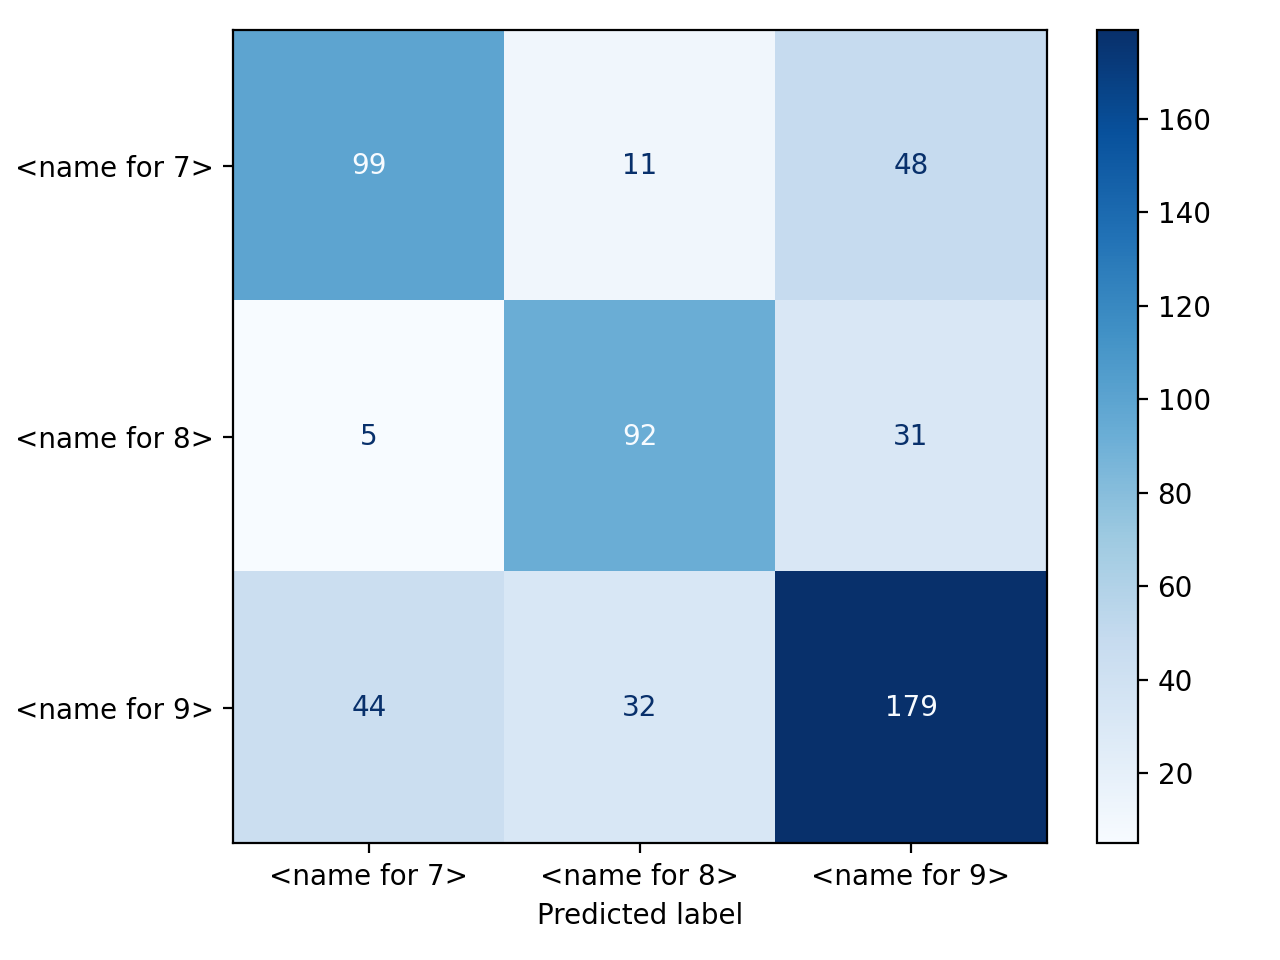
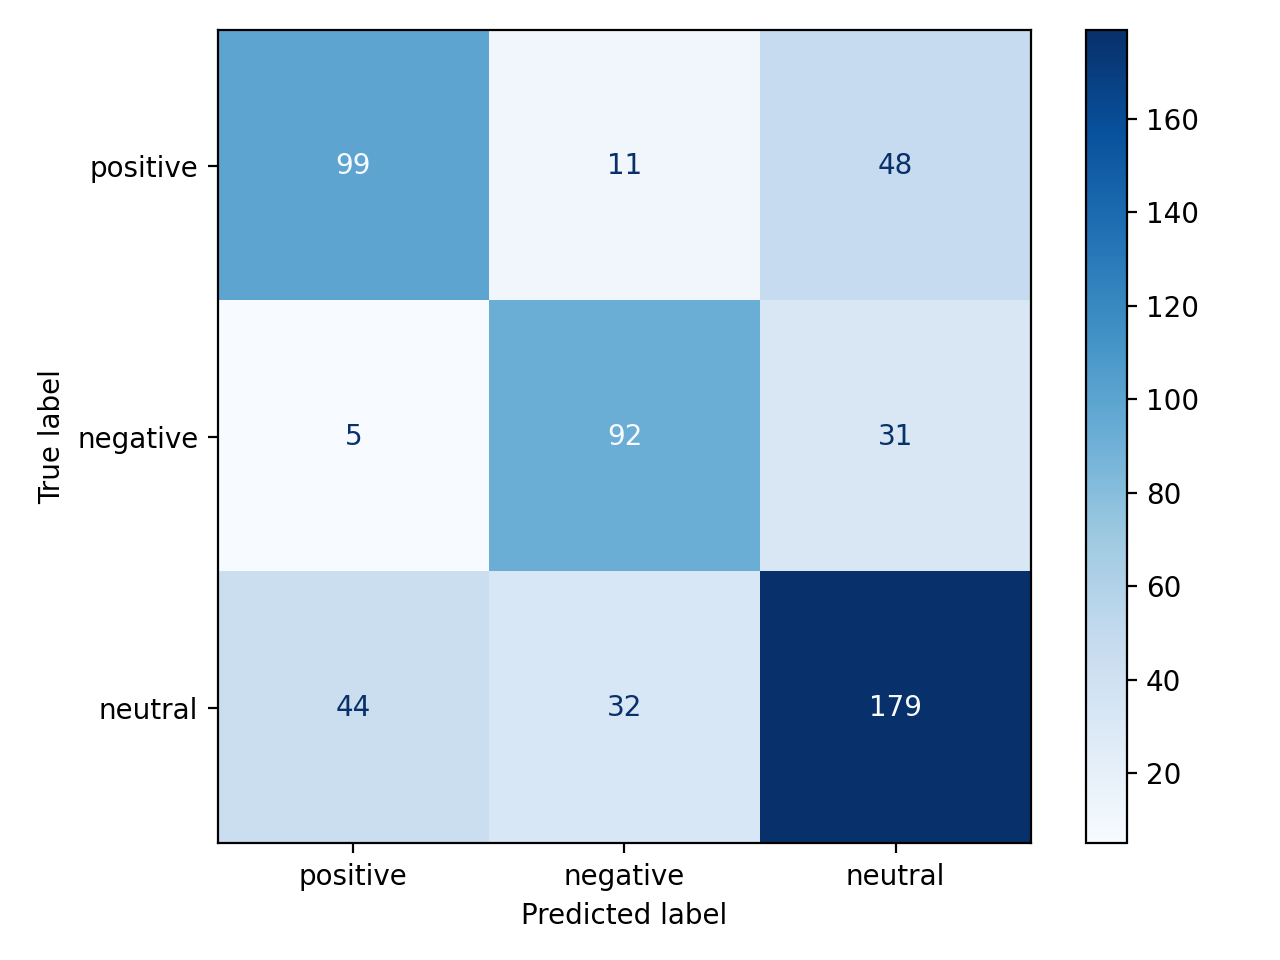
Seeds 3,4 for full-data default, all 5 models

diff --git a/results/aggregate_tables.md b/results/aggregate_tables.md
@@ -4,31 +4,31 @@
 
 | Model | Accuracy | Macro-F1 | Per-seed range |
 |---|---|---|---|
-| mbert | 0.601 ± 0.007 (n=3) | 0.583 ± 0.006 (n=3) | 0.579–0.591 |
-| xlmr | 0.659 ± 0.013 (n=3) | 0.654 ± 0.013 (n=3) | 0.643–0.669 |
-| indicbert | 0.680 ± 0.018 (n=3) | 0.679 ± 0.017 (n=3) | 0.666–0.699 |
-| muril | 0.614 ± 0.125 (n=3) | 0.526 ± 0.271 (n=3) | 0.214–0.695 |
-| telugubert | 0.691 ± 0.013 (n=3) | 0.689 ± 0.013 (n=3) | 0.682–0.704 |
+| mbert | 0.597 ± 0.008 (n=5) | 0.578 ± 0.011 (n=5) | 0.561–0.591 |
+| xlmr | 0.664 ± 0.015 (n=5) | 0.659 ± 0.015 (n=5) | 0.643–0.679 |
+| indicbert | 0.680 ± 0.013 (n=5) | 0.679 ± 0.012 (n=5) | 0.666–0.699 |
+| muril | 0.635 ± 0.093 (n=5) | 0.581 ± 0.206 (n=5) | 0.214–0.695 |
+| telugubert | 0.690 ± 0.010 (n=5) | 0.688 ± 0.011 (n=5) | 0.679–0.704 |
 
 ### Training-data size (default settings)
 
 | Model | 10% | 25% | 50% | 100% |
 |---|---|---|---|---|
-| mbert | 0.346 ± 0.118 (n=3) | 0.526 ± 0.014 (n=3) | 0.561 ± 0.027 (n=3) | 0.583 ± 0.006 (n=3) |
-| xlmr | 0.267 ± 0.092 (n=3) | 0.546 ± 0.012 (n=3) | 0.636 ± 0.015 (n=3) | 0.654 ± 0.013 (n=3) |
-| indicbert | 0.214 ± 0.000 (n=3) | 0.563 ± 0.036 (n=3) | 0.670 ± 0.021 (n=3) | 0.679 ± 0.017 (n=3) |
-| muril | 0.214 ± 0.000 (n=3) | 0.354 ± 0.243 (n=3) | 0.660 ± 0.011 (n=3) | 0.526 ± 0.271 (n=3) |
-| telugubert | 0.214 ± 0.000 (n=3) | 0.655 ± 0.006 (n=3) | 0.663 ± 0.010 (n=3) | 0.689 ± 0.013 (n=3) |
+| mbert | 0.346 ± 0.118 (n=3) | 0.526 ± 0.014 (n=3) | 0.561 ± 0.027 (n=3) | 0.578 ± 0.011 (n=5) |
+| xlmr | 0.267 ± 0.092 (n=3) | 0.546 ± 0.012 (n=3) | 0.636 ± 0.015 (n=3) | 0.659 ± 0.015 (n=5) |
+| indicbert | 0.214 ± 0.000 (n=3) | 0.563 ± 0.036 (n=3) | 0.670 ± 0.021 (n=3) | 0.679 ± 0.012 (n=5) |
+| muril | 0.214 ± 0.000 (n=3) | 0.354 ± 0.243 (n=3) | 0.660 ± 0.011 (n=3) | 0.581 ± 0.206 (n=5) |
+| telugubert | 0.214 ± 0.000 (n=3) | 0.655 ± 0.006 (n=3) | 0.663 ± 0.010 (n=3) | 0.688 ± 0.011 (n=5) |
 
 ### Learning rate, full data, 4 epochs, no warmup
 
 | Model | 2e-05 | 3e-05 | 5e-05 |
 |---|---|---|---|
-| mbert | 0.583 ± 0.006 (n=3) | 0.580 ± 0.009 (n=3) | 0.323 ± 0.189 (n=3) |
-| xlmr | 0.654 ± 0.013 (n=3) | 0.559 ± 0.177 (n=3) | 0.353 ± 0.242 (n=3) |
-| indicbert | 0.679 ± 0.017 (n=3) | 0.675 ± 0.005 (n=3) | 0.655 ± 0.010 (n=3) |
-| muril | 0.526 ± 0.271 (n=3) | 0.640 ± 0.039 (n=3) | 0.643 ± 0.003 (n=3) |
-| telugubert | 0.689 ± 0.013 (n=3) | 0.673 ± 0.007 (n=3) | 0.511 ± 0.257 (n=3) |
+| mbert | 0.578 ± 0.011 (n=5) | 0.580 ± 0.009 (n=3) | 0.323 ± 0.189 (n=3) |
+| xlmr | 0.659 ± 0.015 (n=5) | 0.559 ± 0.177 (n=3) | 0.353 ± 0.242 (n=3) |
+| indicbert | 0.679 ± 0.012 (n=5) | 0.675 ± 0.005 (n=3) | 0.655 ± 0.010 (n=3) |
+| muril | 0.581 ± 0.206 (n=5) | 0.640 ± 0.039 (n=3) | 0.643 ± 0.003 (n=3) |
+| telugubert | 0.688 ± 0.011 (n=5) | 0.673 ± 0.007 (n=3) | 0.511 ± 0.257 (n=3) |
 
 ### 10% of the data: default vs longer training with a higher learning rate
 
@@ -44,8 +44,8 @@
 
 | Model | default | warmup 0.1 @2e-5 | 5e-5, no warmup | 5e-5, warmup 0.1 | embeddings trainable |
 |---|---|---|---|---|---|
-| mbert | 0.583 ± 0.006 (n=3) | 0.588 ± 0.011 (n=3) | 0.323 ± 0.189 (n=3) | 0.578 ± 0.037 (n=3) | n/a |
-| xlmr | 0.654 ± 0.013 (n=3) | 0.621 ± 0.021 (n=3) | 0.353 ± 0.242 (n=3) | 0.214 ± 0.000 (n=3) | n/a |
-| indicbert | 0.679 ± 0.017 (n=3) | 0.670 ± 0.001 (n=3) | 0.655 ± 0.010 (n=3) | 0.665 ± 0.015 (n=3) | n/a |
-| muril | 0.526 ± 0.271 (n=3) | 0.657 ± 0.023 (n=3) | 0.643 ± 0.003 (n=3) | n/a | n/a |
-| telugubert | 0.689 ± 0.013 (n=3) | n/a | 0.511 ± 0.257 (n=3) | n/a | n/a |
+| mbert | 0.578 ± 0.011 (n=5) | 0.588 ± 0.011 (n=3) | 0.323 ± 0.189 (n=3) | 0.578 ± 0.037 (n=3) | n/a |
+| xlmr | 0.659 ± 0.015 (n=5) | 0.621 ± 0.021 (n=3) | 0.353 ± 0.242 (n=3) | 0.214 ± 0.000 (n=3) | n/a |
+| indicbert | 0.679 ± 0.012 (n=5) | 0.670 ± 0.001 (n=3) | 0.655 ± 0.010 (n=3) | 0.665 ± 0.015 (n=3) | n/a |
+| muril | 0.581 ± 0.206 (n=5) | 0.657 ± 0.023 (n=3) | 0.643 ± 0.003 (n=3) | n/a | n/a |
+| telugubert | 0.688 ± 0.011 (n=5) | n/a | 0.511 ± 0.257 (n=3) | n/a | n/a |
